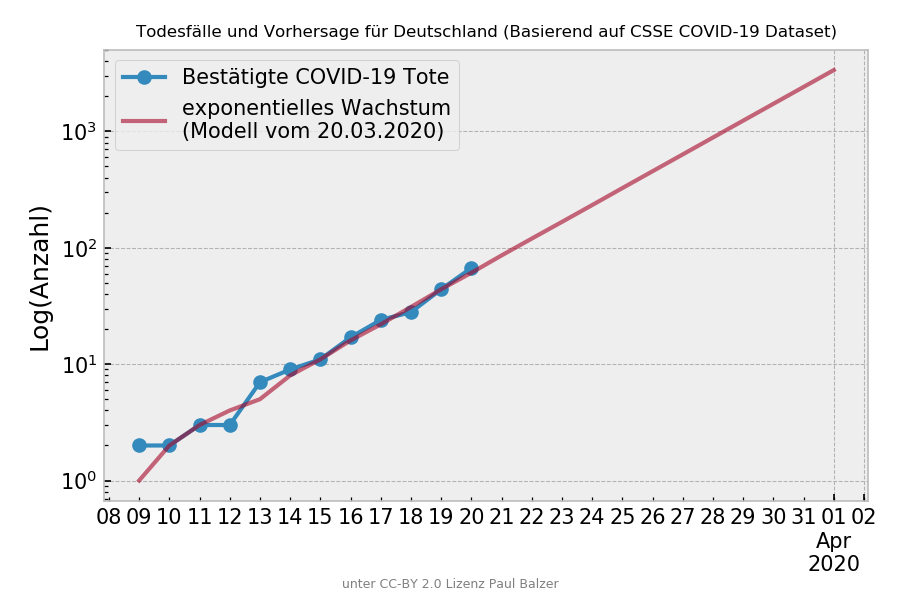
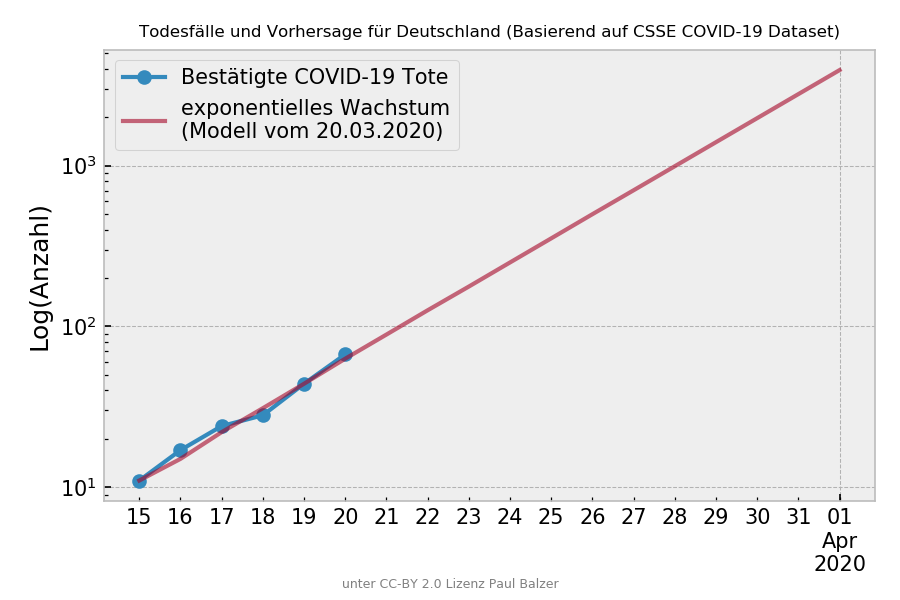
Comments and Deaths Model Filter >10

diff --git a/predict-death.py b/predict-death.py
@@ -1,7 +1,7 @@
 #!/usr/bin/env python#!/usr/bin/python
 # coding: utf-8
 
-# In[1]:
+# In[74]:
 
 
 import pandas as pd
@@ -20,7 +20,7 @@ plt.style.use('bmh')
 # 
 # We are using the Covid-19 Dataset: https://github.com/CSSEGISandData/COVID-19
 
-# In[2]:
+# In[75]:
 
 
 url = 'https://raw.githubusercontent.com'
@@ -29,13 +29,13 @@ url += '/master/csse_covid_19_data/csse_covid_19_time_series'
 url += '/time_series_19-covid-Deaths.csv'
 
 
-# In[3]:
+# In[76]:
 
 
 deaths = pd.read_csv(url)
 
 
-# In[4]:
+# In[77]:
 
 
 deaths.head()
@@ -43,7 +43,7 @@ deaths.head()
 
 # ### Preprocessing
 
-# In[5]:
+# In[78]:
 
 
 ger_deaths = deaths[deaths['Country/Region']=='Germany'].T
@@ -51,20 +51,22 @@ ger_deaths = ger_deaths[4:].astype('int')
 ger_deaths.columns = ['deaths']
 
 
-# In[6]:
+# In[79]:
 
 
 ger_deaths.index = pd.to_datetime(ger_deaths.index)
 ger_deaths = ger_deaths.asfreq('D')
 
 
-# In[7]:
+# Filter der Daten: Wir nehmen für die Modellbildung erst den Tag als Beginn, an dem der 10. Tote gemeldet wurde.
+
+# In[80]:
 
 
-ger_deaths = ger_deaths[ger_deaths.deaths>0]
+ger_deaths = ger_deaths[ger_deaths.deaths >= 10]
 
 
-# In[8]:
+# In[81]:
 
 
 today = ger_deaths.index[-1]
@@ -72,34 +74,28 @@ today = ger_deaths.index[-1]
 
 # ## Feature
 
-# In[9]:
+# In[82]:
 
 
 ger_deaths['days'] = (ger_deaths.index - ger_deaths.index.min()).days
 
 
-# In[10]:
+# In[83]:
 
 
 ger_deaths.head()
 
 
-# In[11]:
-
-
-ger_deaths.deaths.plot();
-
-
 # ## Prediction Model
 
-# In[12]:
+# In[84]:
 
 
 from sklearn.linear_model import LinearRegression
 import numpy as np
 
 
-# In[13]:
+# In[85]:
 
 
 X = ger_deaths['days'].values.reshape(-1, 1)
@@ -109,21 +105,21 @@ logy = np.log(y)
 
 # ### Train
 
-# In[14]:
+# In[86]:
 
 
 clf = LinearRegression()
 clf.fit(X, logy)
 
 
-# In[15]:
+# In[87]:
 
 
 logy_pred = clf.predict(X)
 ger_deaths['predicted'] = np.exp(logy_pred).astype('int')
 
 
-# In[16]:
+# In[88]:
 
 
 ger_deaths.tail()
@@ -131,13 +127,13 @@ ger_deaths.tail()
 
 # ## Future
 
-# In[17]:
+# In[89]:
 
 
 fd = 13 # days into the future
 
 
-# In[18]:
+# In[90]:
 
 
 # Create DataFrame in the Future
@@ -147,7 +143,7 @@ days_in_future = ger_deaths.days[-1] + np.arange(1, fd)
 future = pd.DataFrame(data=days_in_future, index=dates, columns=['days'])
 
 
-# In[19]:
+# In[91]:
 
 
 ger_future = ger_deaths.append(future, sort=True)
@@ -155,20 +151,20 @@ ger_future = ger_deaths.append(future, sort=True)
 
 # ### Predict the Future
 
-# In[20]:
+# In[92]:
 
 
 X_future = ger_future['days'].values.reshape(-1, 1)
 
 
-# In[21]:
+# In[93]:
 
 
 logy_pred = clf.predict(X_future)
 ger_future['predicted'] = np.exp(logy_pred).astype('int')
 
 
-# In[26]:
+# In[94]:
 
 
 ger_future
@@ -176,13 +172,13 @@ ger_future
 
 # ## Future Plot
 
-# In[22]:
+# In[95]:
 
 
 title = 'Todesfälle und Vorhersage für Deutschland (Basierend auf CSSE COVID-19 Dataset)'
 
 
-# In[25]:
+# In[96]:
 
 
 ax = ger_future['deaths'].plot(label='Bestätigte COVID-19 Tote', marker='o')
@@ -201,7 +197,7 @@ plt.savefig('./%s-Germany-Covid19-Death-Prediction.png' % today.strftime('%Y-%m-
 
 # ## Export as Excel
 
-# In[24]:
+# In[97]:
 
 
 ger_future.to_excel('./%s-Germany-Covid19-Death-Prediction.xlsx' % today.strftime('%Y-%m-%d'))

diff --git a/predict.py b/predict.py
@@ -58,10 +58,12 @@ ger_confirmed.index = pd.to_datetime(ger_confirmed.index)
 ger_confirmed = ger_confirmed.asfreq('D')
 
 
+# Filter der Daten: Wir nehmen für die Modellbildung erst den Tag als Beginn, an dem der 100. Erkrankte gemeldet wurde.
+
 # In[8]:
 
 
-ger_confirmed = ger_confirmed[ger_confirmed.confirmed>100]
+ger_confirmed = ger_confirmed[ger_confirmed.confirmed>=100]
 
 
 # In[9]:
